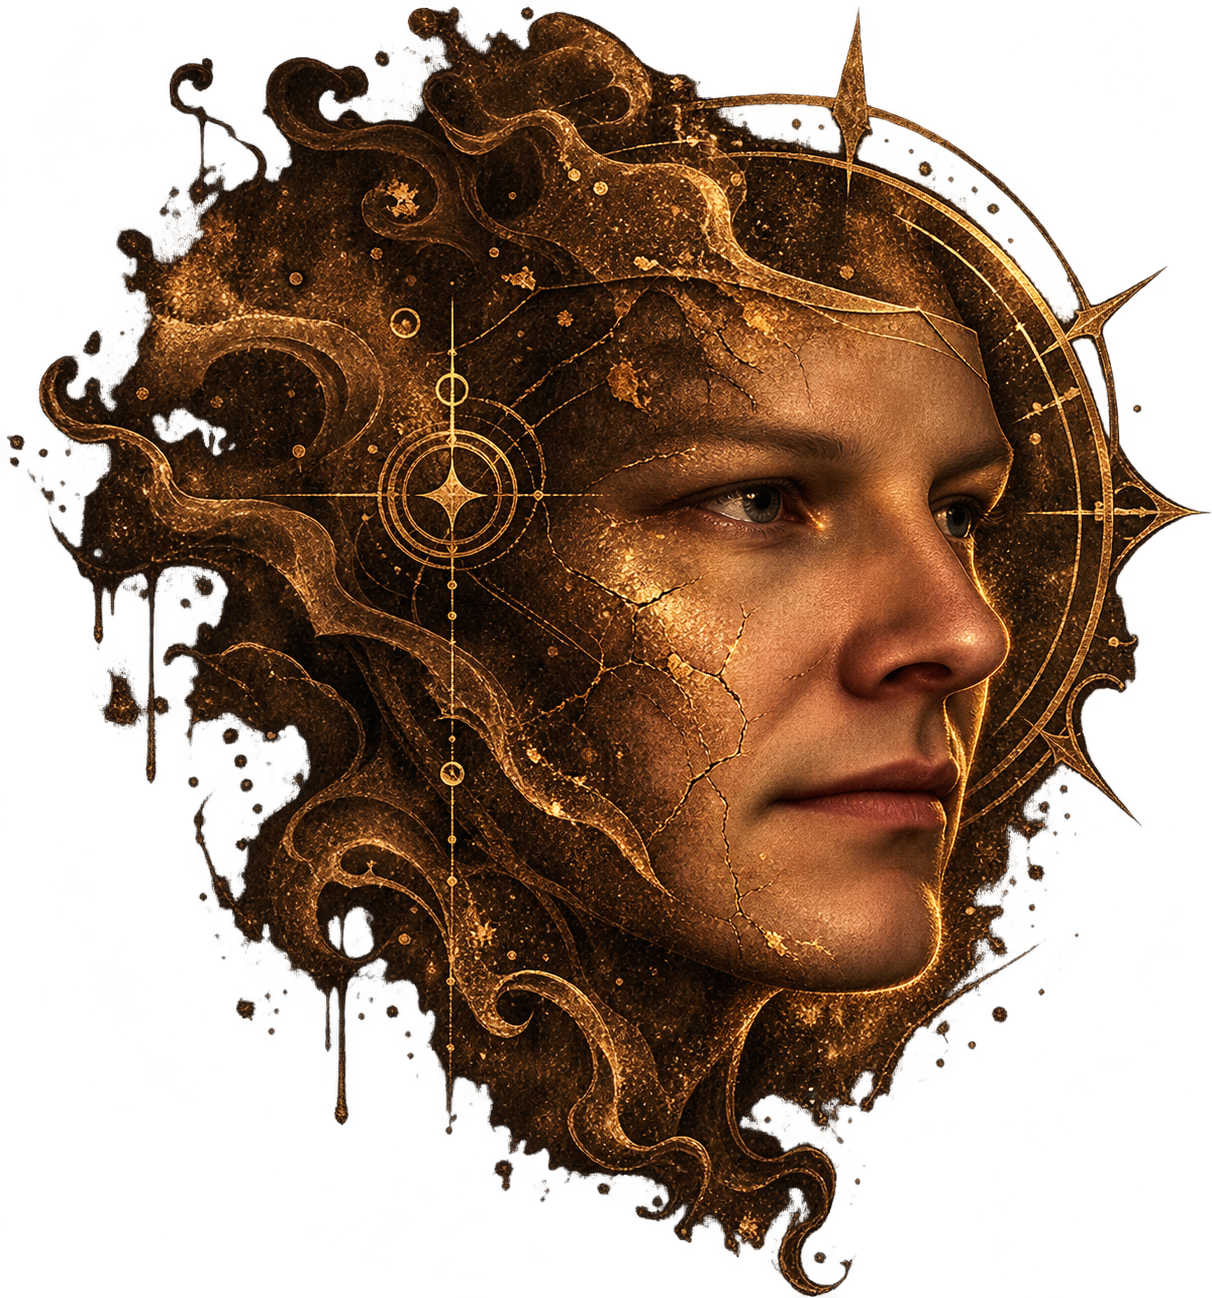
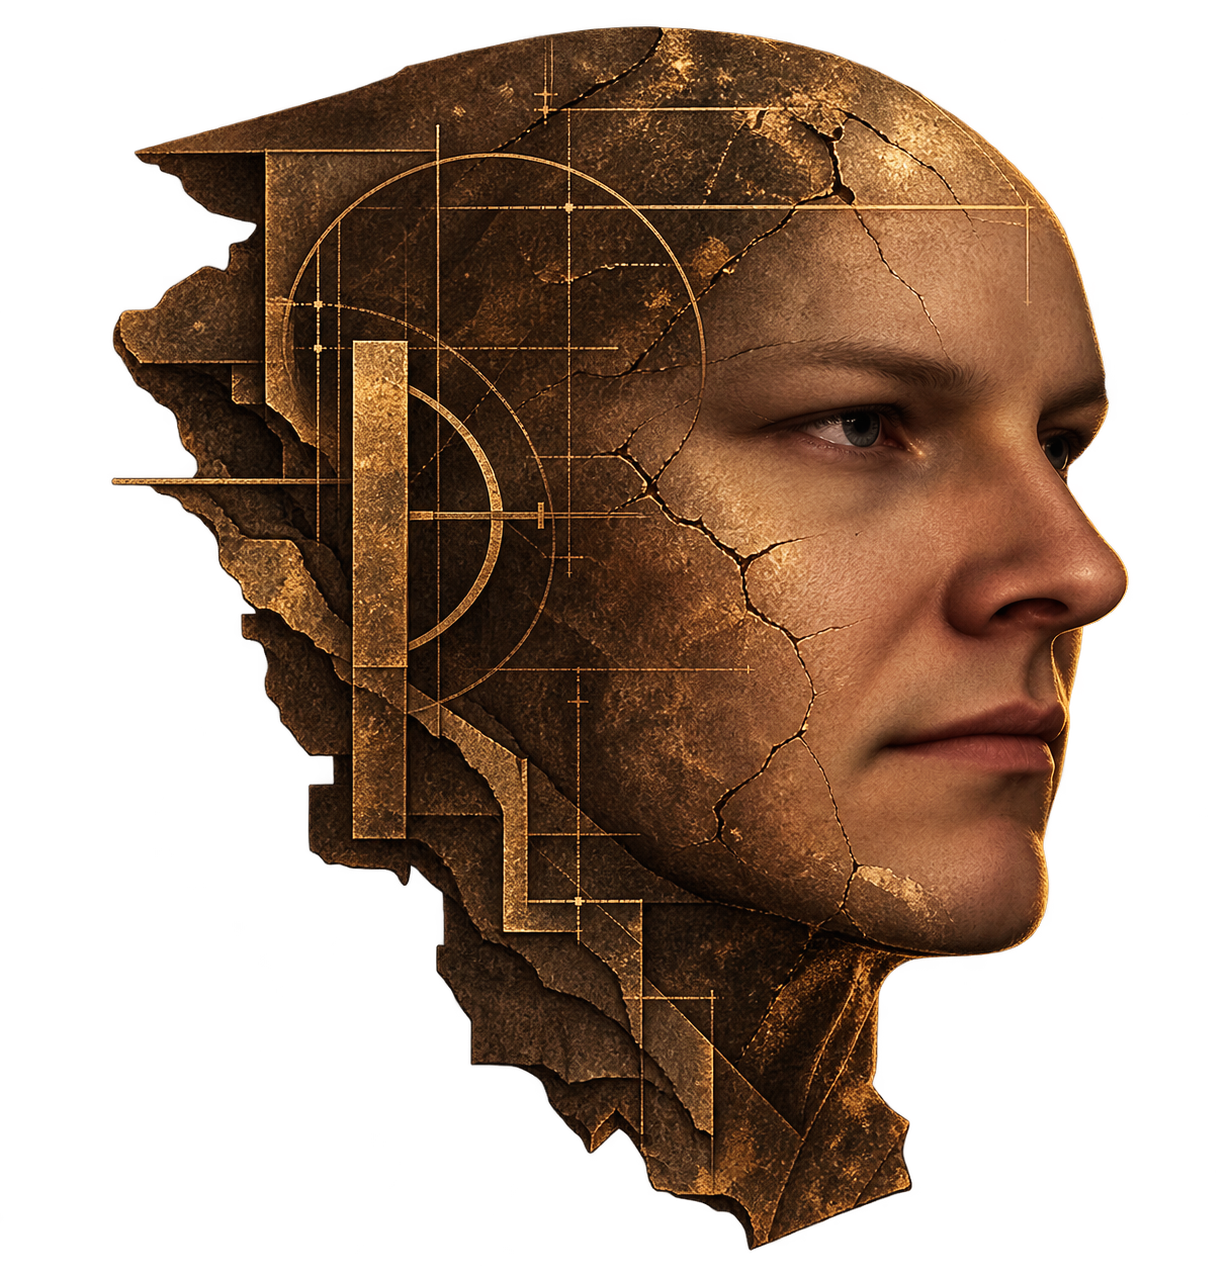
morphology game cover better

diff --git a/index.html b/index.html
@@ -1002,9 +1002,9 @@ Auch bei anderen Arbeitsschritten kann KI zum Einsatz kommen. Wo dies der Fall i
 
           <hr style="margin:20px 0; border:none; border-top:1px solid var(--border);" />
 
-          <h3>Leseproben abonnieren</h3>
+          <h3>Leseproben und Probezugänge abonnieren</h3>
           <p class="fineprint">
-            Kostenlose Leseproben und Werbung, vierteljährlich in den Briefkasten.
+            Kostenlose Leseproben, Probezugänge und Werbung, vierteljährlich in den Briefkasten.
           </p>
 
           <form class="form" data-subscribe-form>
@@ -1024,8 +1024,24 @@ Auch bei anderen Arbeitsschritten kann KI zum Einsatz kommen. Wo dies der Fall i
               <label for="sub-city">Ort</label>
               <input id="sub-city" name="city" autocomplete="address-level2" required />
             </div>
+            <div class="field">
+              <label for="sub-email">E-Mail (zur Bestätigung)</label>
+              <input id="sub-email" name="email" type="email" autocomplete="email" required />
+            </div>
+
+            <div class="field checkbox">
+              <input id="sub-review-program" name="reviewProgram" type="checkbox" />
+              <label for="sub-review-program">
+                Am <a href="#rabatt-meinung-title" target="_blank">langfristigen Bewertungsprogramm</a> teilnehmen
+                (neue Werke vor Verkaufsstart 50&nbsp;% reduziert, gegen dauerhafte Bewertungen).
+              </label>
+            </div>
 
             <button class="button" type="submit" id="sub-submit" disabled>Abonnieren</button>
+            <p class="fineprint" style="margin-top:8px;">
+              Trägt Name und Nachricht rechts bei "... oder klassisch per Mail" ein —
+              dort noch der Datennutzung zustimmen und absenden.
+            </p>
           </form>
         </article>
 
@@ -1087,6 +1103,13 @@ Auch bei anderen Arbeitsschritten kann KI zum Einsatz kommen. Wo dies der Fall i
         form.addEventListener("input", updateEnabled);
         updateEnabled();
 
+        // Doesn't send anything itself — this form has no data-use consent
+        // checkbox of its own. Instead it prefills Name + Nachricht in the
+        // "... oder klassisch per Mail" form on the right, which already
+        // has the consent checkbox and the actual send flow
+        // (attachContactFormHandler in assets/site.js) — the visitor still
+        // has to review, tick consent, and click that form's own submit
+        // button themselves.
         form.addEventListener("submit", (e) => {
           e.preventDefault();
           if (!form.checkValidity()) return;
@@ -1095,23 +1118,29 @@ Auch bei anderen Arbeitsschritten kann KI zum Einsatz kommen. Wo dies der Fall i
           const street = form.querySelector("#sub-street").value.trim();
           const zip = form.querySelector("#sub-zip").value.trim();
           const city = form.querySelector("#sub-city").value.trim();
+          const email = form.querySelector("#sub-email").value.trim();
           const address = `${name}, ${street}, ${zip} ${city}`;
-          const wantsReviewProgram = form.querySelector("#sub-review-program").checked;
+          // Optional chaining: if this checkbox ever goes missing again
+          // (it did once — silently broke the whole submit handler via a
+          // TypeError on .checked of null, so the button looked "dead"),
+          // this degrades to "not participating" instead of crashing.
+          const wantsReviewProgram = form.querySelector("#sub-review-program")?.checked || false;
 
-          const subject = "Leseproben-Abo";
-          const body =
+          const message =
             "Ich möchte den kostenlosen Leseproben und Werbung abonnieren - meine Adresse ist die:\n\n" +
             address + "\n\n" +
+            "E-Mail zur Bestätigung: " + email + "\n\n" +
             (wantsReviewProgram
               ? "Ich möchte außerdem am langfristigen Bewertungsprogramm teilnehmen (neue Werke vor Verkaufsstart 50% reduziert, gegen dauerhafte Bewertungen)."
               : "Am langfristigen Bewertungsprogramm möchte ich nicht teilnehmen.");
 
-          const url =
-            `mailto:${typeof CONTACT_EMAIL !== "undefined" ? CONTACT_EMAIL : "anfrage@publish-lohr.com"}` +
-            `?subject=${encodeURIComponent(subject)}` +
-            `&body=${encodeURIComponent(body)}`;
+          const contactName = document.getElementById("contact-name");
+          const contactMessage = document.getElementById("contact-message");
+          if (contactName) contactName.value = name;
+          if (contactMessage) contactMessage.value = message;
 
-          window.location.href = url;
+          document.getElementById("contact")?.scrollIntoView({ behavior: "smooth", block: "start" });
+          document.getElementById("contact-consent")?.focus();
         });
       })();
     </script>
@@ -1138,6 +1167,7 @@ Auch bei anderen Arbeitsschritten kann KI zum Einsatz kommen. Wo dies der Fall i
     <ul class="footer-links">
       <li><a href="/regulation/privacy/">Datenschutz</a></li>
       <li><a href="/regulation/cookies/">Cookies</a></li>
+      <li><a href="/regulation/withdrawal/">Widerruf</a></li>
       <li><a href="/regulation/imprint/">Impressum</a></li>
     </ul>
   </footer>

diff --git a/webpages/login/index.html b/webpages/login/index.html
@@ -48,8 +48,8 @@
     <header class="page-hero">
       <h1>Login</h1>
       <p class="lead" style="margin:0;">
-        Die Mitgliedschaft (Login + monatliche Abrechnung nach Nutzung) ist
-        noch im Aufbau — hier ist noch kein echtes Konto anlegbar.
+        Die Mitgliedschaft (Anmeldung + monatliche Abrechnung nach Nutzung) ist
+        noch im Aufbau. Hier ist noch kein echtes Konto anlegbar.
       </p>
     </header>
 
@@ -57,7 +57,7 @@
       <h2 id="login-soon-title">Bald verfügbar</h2>
       <p class="fineprint">
         Mehr zur geplanten Mitgliedschaft: <a href="/#mitglied-werden">Startseite, „Mitglied werden“</a>.
-        Interesse schon jetzt? <a href="/#contact">Schreib mir eine Mail</a>.
+        Interesse schon jetzt? <a href="/#contact">Schreiben Sie eine Mail</a>.
       </p>
     </section>
   </main>

diff --git a/webpages/archiv/index.html b/webpages/archiv/index.html
@@ -85,7 +85,7 @@
       <h2 id="archiv-search-title">Suche</h2>
 
       <p class="fineprint" data-archiv-hint style="margin:0 0 12px;">
-        Wir arbeiten an einem neuen Feature für Sie: einer KI-gestützten Suche durch alles, was publish-Lohr veröffentlicht hat.
+        Wir arbeiten an einem neuen Feature für Sie. Leider isses noch nicht fertig.
       </p>
 
       <form class="archiv-search" data-archiv-search>

diff --git a/DOCUMENTATION.md b/DOCUMENTATION.md
@@ -1733,6 +1733,51 @@ Absicherung für die Archiv-Suche (aktuell ohnehin noch nicht implementiert,
 siehe "Archiv"-Abschnitt — sinnvollerweise gleichzeitig mit dem echten
 Such-Backend abzusichern, nicht vorher separat).
 
+### Leseproben-Abo-Button war kaputt — und Redesign auf "füllt das Kontaktformular"
+
+**Bug gefunden:** Der "Abonnieren"-Button tat sichtbar nichts beim
+Klicken. Ursache: der Submit-Handler griff auf
+`form.querySelector("#sub-review-program").checked` zu — dieses
+Checkbox-Element war irgendwann zwischen dem ursprünglichen Einbau und
+späteren Umbauten der "Kontaktieren Sie mich!"-Sektion (Karten-Merge,
+dann wieder Aufteilung in zwei Karten) aus dem Markup verschwunden.
+`null.checked` wirft eine TypeError, die den kompletten restlichen
+Handler abbricht, bevor `window.location.href` je erreicht wurde — der
+Button reagierte dadurch nach außen wie "tot". Checkbox wieder ergänzt;
+zusätzlich der Zugriff jetzt mit `?.` abgesichert (`form.querySelector(...)
+?.checked || false`), damit ein erneutes versehentliches Entfernen des
+Elements künftig nur noch "gilt als nicht angehakt" statt den ganzen
+Handler zum Absturz zu bringen.
+
+**Fehlendes E-Mail-Feld ergänzt:** `#sub-email` (Pflichtfeld,
+`type="email"`) zwischen Ort und der Bewertungsprogramm-Checkbox
+hinzugefügt — wird jetzt mit in den Nachrichtentext übernommen.
+
+**Redesign — kein eigener Versand mehr, sondern Formular-Vorbefüllung:**
+Das Abonnieren-Formular hat (bewusst) keine eigene Datennutzungs-
+Zustimmungs-Checkbox — die existiert bereits im rechten "... oder
+klassisch per Mail"-Formular. Statt eine zweite, ungeprüfte
+`mailto:`-Öffnung zu bauen, befüllt "Abonnieren" jetzt stattdessen
+`#contact-name` und `#contact-message` im rechten Formular (Adresse,
+E-Mail zur Bestätigung und die Bewertungsprogramm-Entscheidung als
+Fließtext in der Nachricht) und scrollt dorthin — der Klick selbst
+verschickt nichts. Die Besucherin muss weiterhin bewusst die
+Zustimmungs-Checkbox anhaken und den bestehenden "E-Mail-Entwurf
+öffnen"-Button des rechten Formulars selbst betätigen. Kleiner
+Hinweistext unter dem Abonnieren-Button erklärt das.
+
+### Widerruf-Link fehlte im Footer der Startseite
+
+`index.html` hat einen eigenen, fest im Markup stehenden Footer (nicht
+über `footer-slot`/das geteilte Partial geladen — anders als Archiv,
+Blog, Login) und listete nur Datenschutz/Cookies/Impressum, ohne
+"Widerruf". `assets/partials/footer.html` (das die anderen Seiten nutzen)
+hatte den Link schon länger. Ergänzt: `<li><a
+href="/regulation/withdrawal/">Widerruf</a></li>` zwischen Cookies und
+Impressum, passend zur Reihenfolge im geteilten Partial. Webshop hat
+ebenfalls einen eigenen, separaten Footer — dort war der Link bereits
+vorhanden, keine Änderung nötig.
+
 ## Offene Punkte
 
 - **`GAME_PASSWORD_MORPHOLOGY` muss noch im Cloudflare-Dashboard gesetzt
